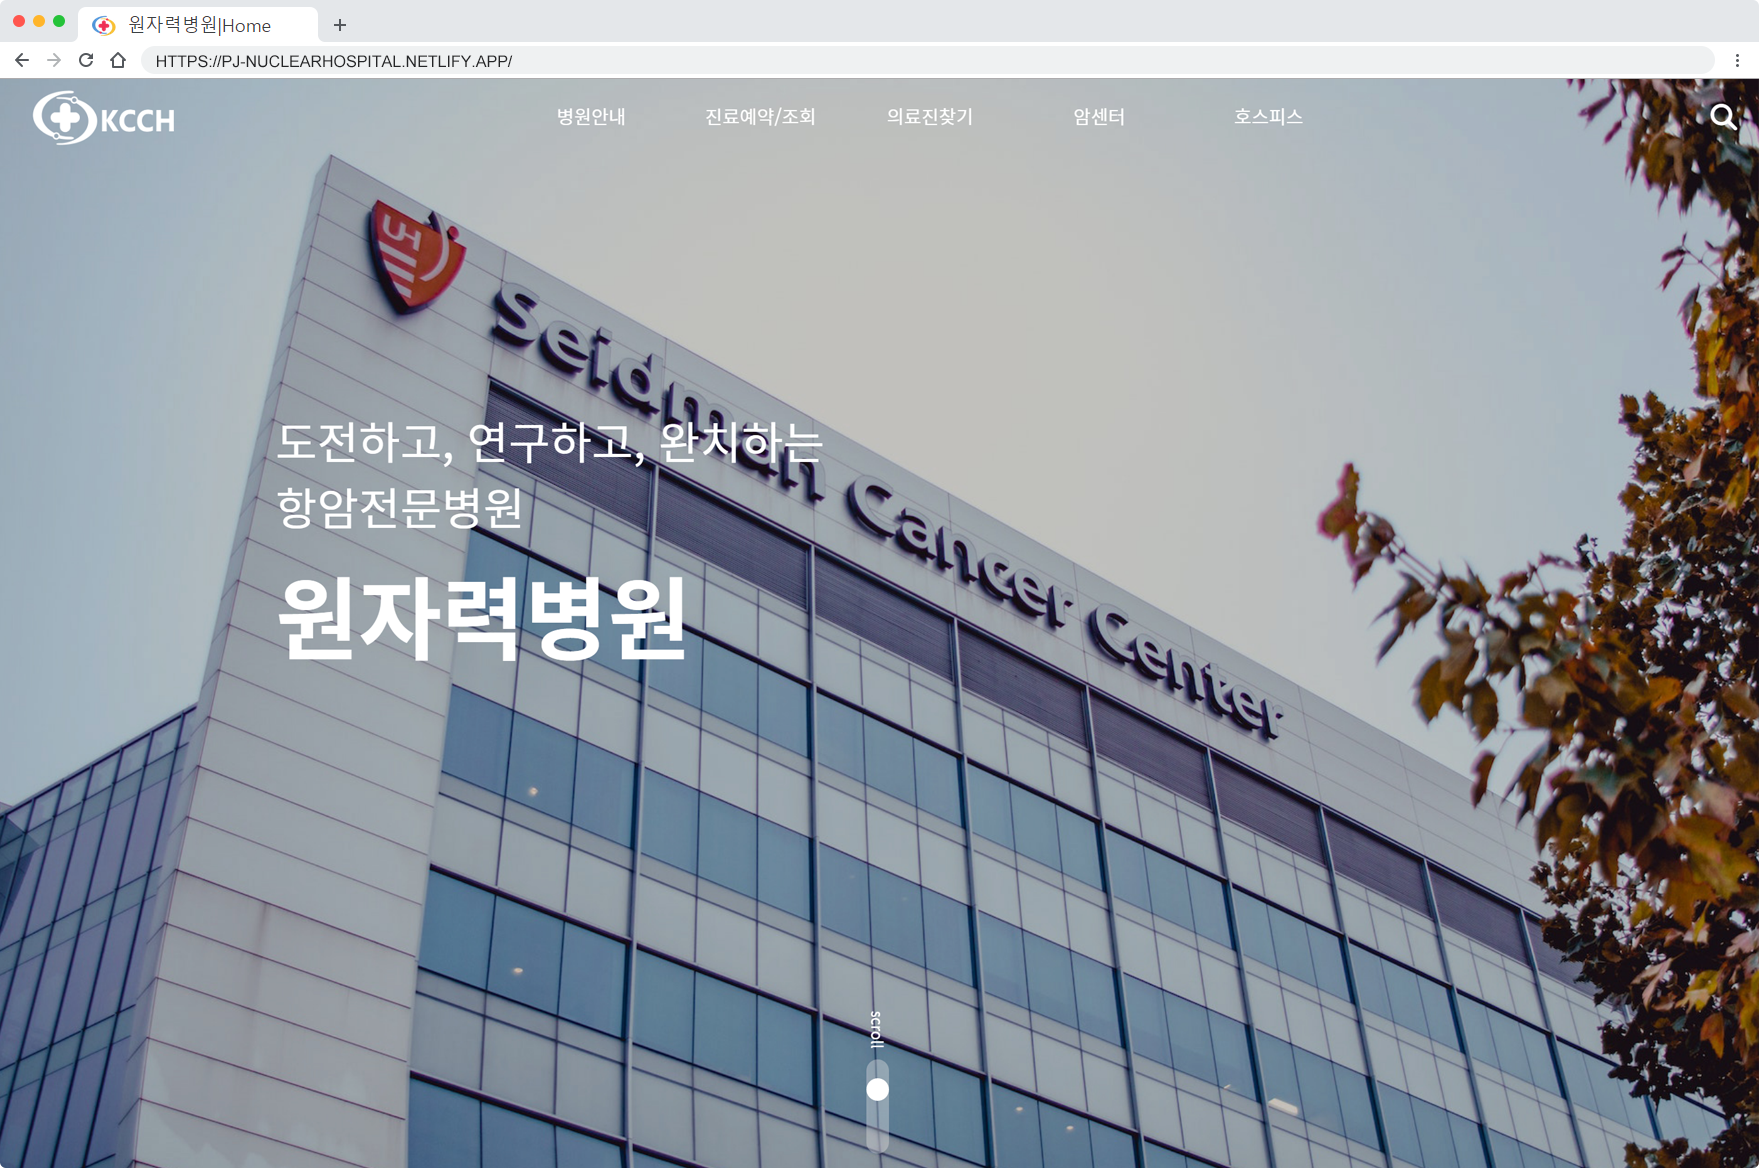
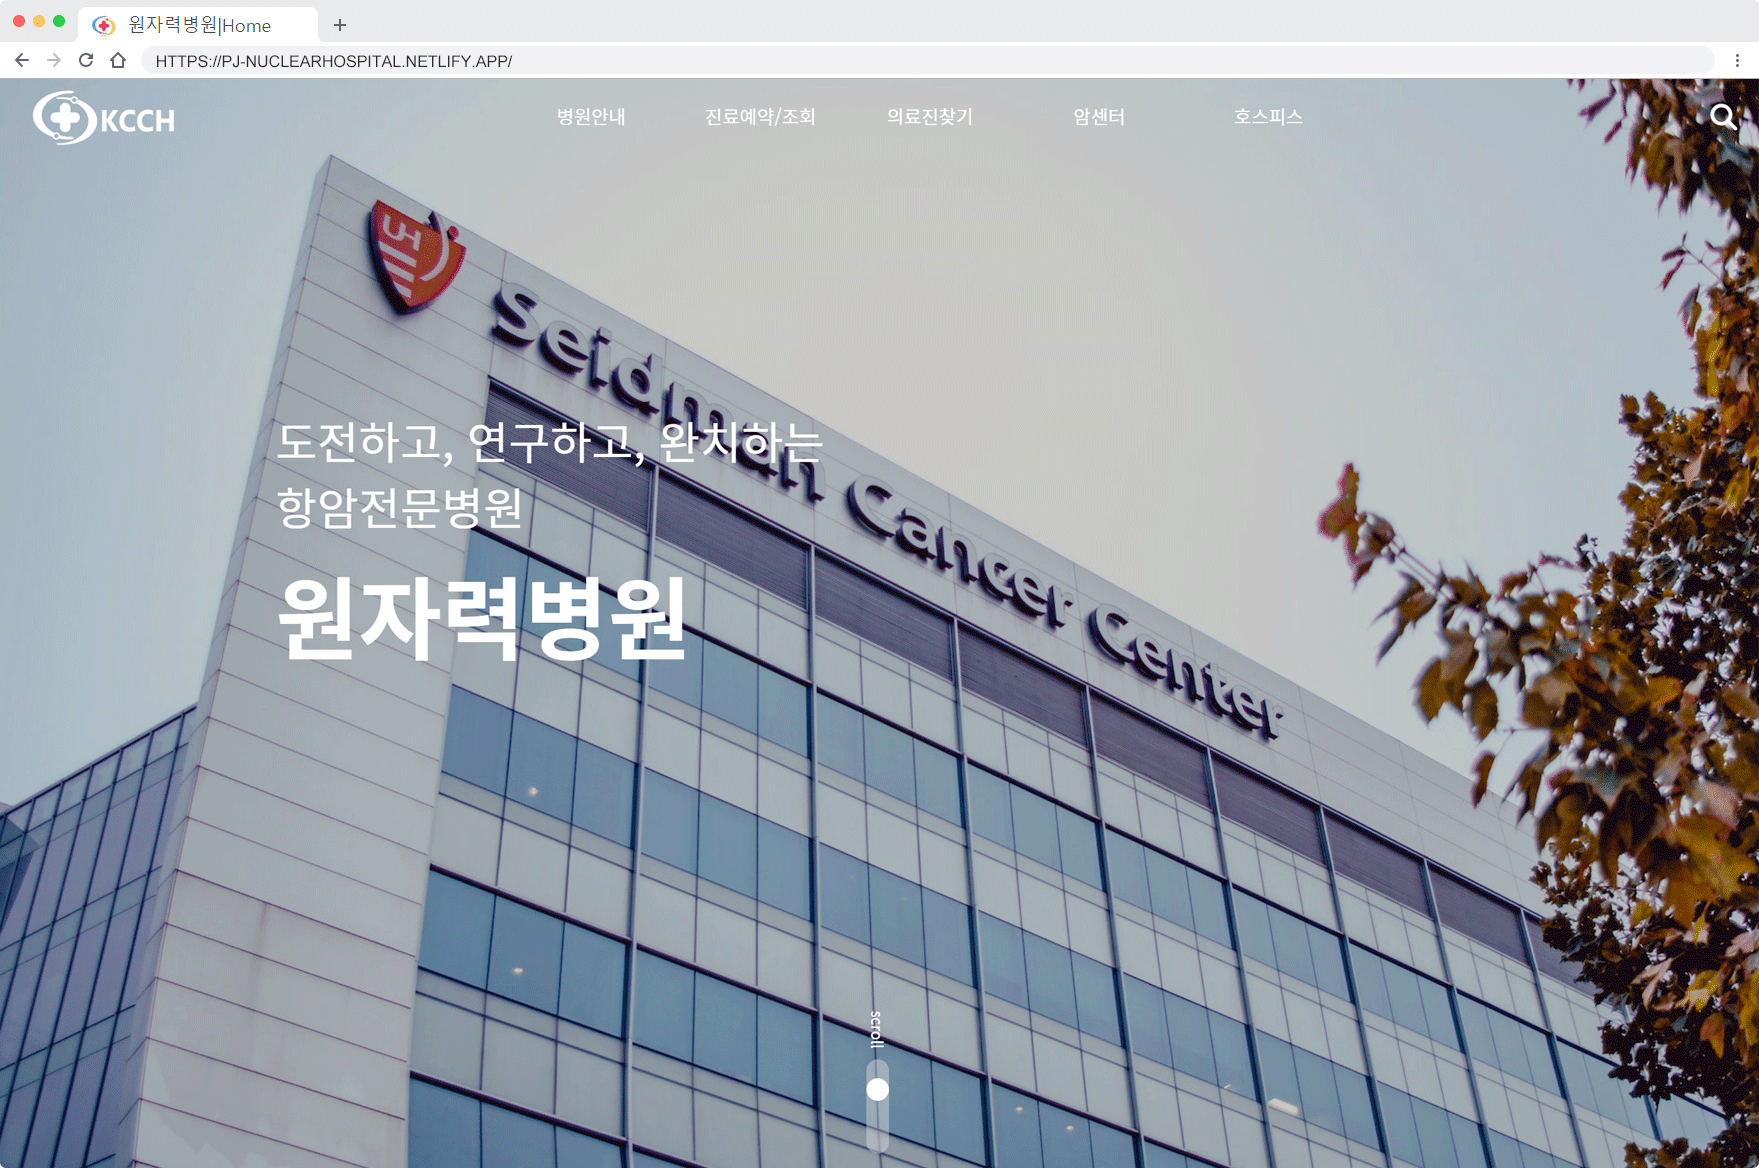
.

diff --git a/leaf.html b/leaf.html
@@ -80,9 +80,9 @@
           <a href="https://pureo2bluekong.com/index.html" class="main_mv_btn">관련사이트<br>바로가기</a>
         </div>
         <div class="visual_img">
-          <img src="img/sec04_leaf01.jpg" alt="">
-          <img src="img/sec04_leaf02.jpg" alt="">
-          <img src="img/sec04_leaf03.jpg" alt="">
+          <img src="img/sec04_leaf01.png" alt="">
+          <img src="img/sec04_leaf02.png" alt="">
+          <img src="img/sec04_leaf03.png" alt="">
         </div>
       </div>
     </div>

diff --git a/css/main.css b/css/main.css
@@ -664,7 +664,7 @@ section h2{
   margin: 0 auto;
 }
 .sec04 .main_img .leaflet{
-  background: url(../img/sec04_leaf04.jpg) no-repeat;
+  background: url(../img/sec04_leaf04.png) no-repeat;
   background-size: cover;
   background-position: -3px;
 }
